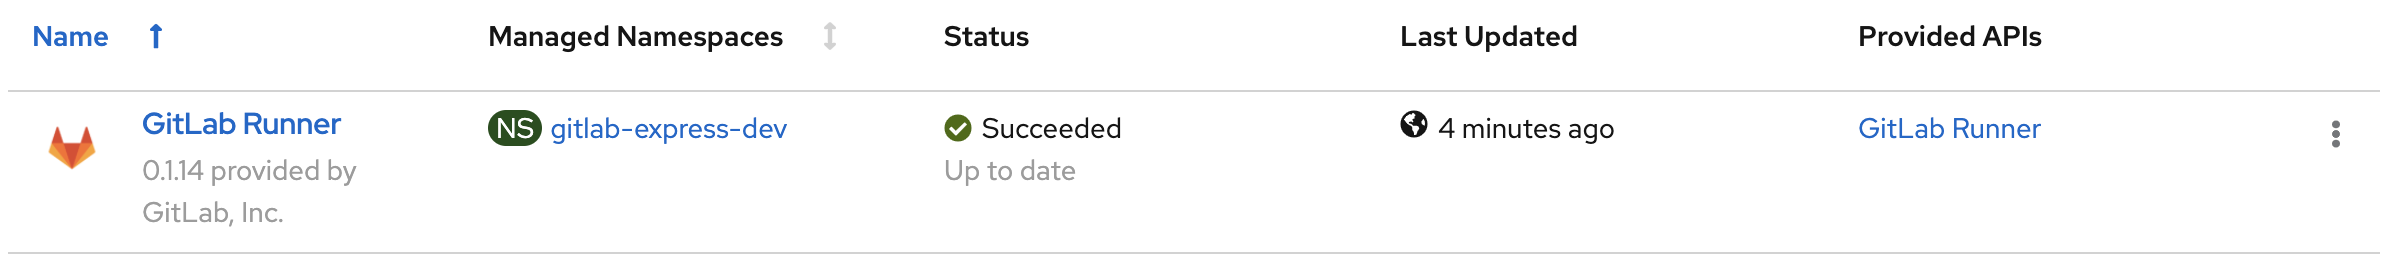
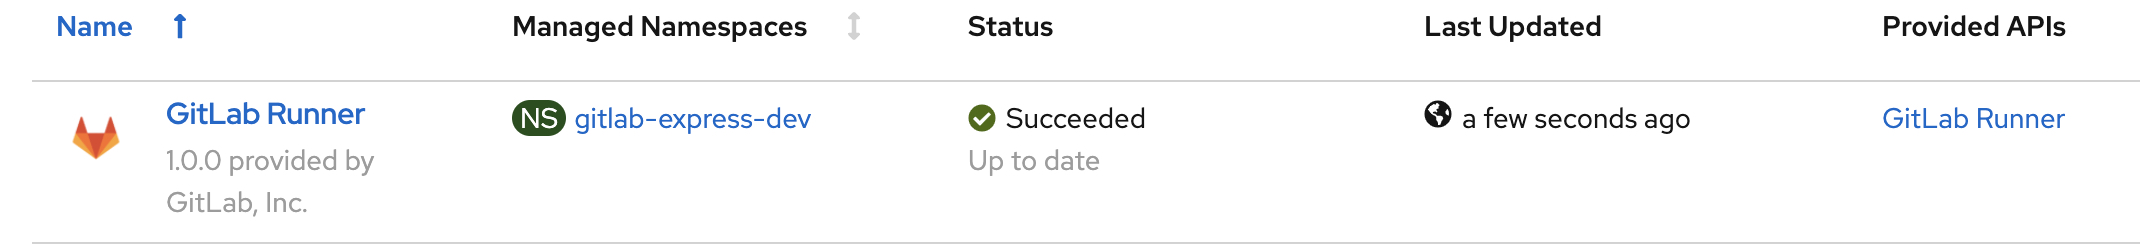
Document operator properties, custom installation and permissions

diff --git a/docs/configuration/configuring_runner_openshift.md b/docs/configuration/configuring_runner_openshift.md
@@ -6,7 +6,76 @@ info: To determine the technical writer assigned to the Stage/Group associated w
 
 # Configuring GitLab Runner on OpenShift 
 
-This document explains how to configure the GitLab Runner on OpenShift.
+This document explains how to configure GitLab Runner on OpenShift.
+
+## Passing properties to GitLab Runner Operator
+
+When creating a `Runner`, you can configure it by setting properties in its `spec`. For example, you can specify the GitLab URL it will be registered in, or the name of the secret that contains the registration token:
+
+```yaml
+apiVersion: apps.gitlab.com/v1beta2
+kind: Runner
+metadata:
+ name: dev
+spec:
+ gitlabUrl: https://gitlab.example.com
+ token: gitlab-runner-secret # Name of the secret containing the Runner token
+```
+
+Read about all the available properties in [Operator properties](#operator-properties).
+
+## Operator properties
+
+This is a list of the supported properties that can be passed to the Operator.
+
+| Setting | Description |
+| ------- | ----------- |
+| `gitlabUrl`     | The fully qualified domain name for the GitLab instance, for example, `https://gitlab.example.com`. |
+| `token`         | Name of `Secret` containing the `runner-registration-token` key used to register the runner. |
+| `tags`          | List of comma-separated tags to be applied to the runner. |
+| `concurrent`    | Limits how many jobs can run concurrently. The maximum number is all defined runners. 0 does not mean unlimited. Default is `10`. |
+| `interval`      | Defines the number of seconds between checks for new jobs. Default is `30`. |
+| `cloneURL`      | Overwrite the URL for the GitLab instance. Used only if the runner can’t connect to the GitLab URL. |
+| `env`           | Name of `ConfigMap` containing key-value pairs that will be injected as environment variables in the Runner pod. |
+| `helperImage`   | Overwrites the default GitLab Runner Helper Image. |
+| `buildImage`    | The default Docker image to use for builds when none is specified. |
+| `cacheType`     | Type of cache used for Runner artifacts. One of: `gcs`, `s3`, `azure`. |
+| `cachePath`     | Defines the cache path on the file system. |
+| `cacheShared`   | Enable sharing of cache between runners. |
+| `s3`            | Options used to setup S3 cache. Refer to [Cache properties](#cache-properties). |
+| `gcs`           | Options used to setup GCS cache. Refer to [Cache properties](#cache-properties). |
+| `azure`         | Options used to setup Azure cache. Refer to [Cache properties](#cache-properties). |
+| `ca`            | Name of TLS secret containing the custom certificate authority (CA) certificates. |
+| `serviceAccount`| Use to override service account used to run the Runner pod. |
+| `config`        | Use to provide a custom config map with a [configuration template](../register/index.md#runners-configuration-template-file). |
+
+## Cache properties
+
+### S3 cache
+
+| Setting | Description |
+| ------- | ----------- |
+| `server`        | The S3 server address. |
+| `credentials`   | Name of the `Secret` containing the `accesskey` and `secretkey` properties used to access the object storage. |
+| `bucket`        | Name of the bucket in which the cache will be stored. |
+| `location`      | Name of the S3 region which the cache will be stored. |
+| `insecure`      | Use insecure connections or `HTTP`. |
+
+### GCS cache
+
+| Setting | Description |
+| ------- | ----------- |
+| `credentials`     | Name of the `Secret` containing the `access-id` and `private-key` properties used to access the object storage. |
+| `bucket`          | Name of the bucket in which the cache will be stored. |
+| `credentialsFile` | Takes GCS credentials file, `keys.json`. |
+
+### Azure cache
+
+| Setting | Description |
+| ------- | ----------- |
+| `credentials`     | Name of the `Secret` containing the `accountName` and `privateKey` properties used to access the object storage. |
+| `container`       | Name of the Azure container in which the cache will be stored. |
+| `storageDomain`   | The domain name of the Azure blob storage. |
 
 ## Configure a proxy environment
 
@@ -38,59 +107,143 @@ To create a proxy environment:
      name: dev
    spec:
      gitlabUrl: https://gitlab.example.com
-     imagePullPolicy: Always
      token: gitlab-runner-secret # Name of the secret containing the Runner token
-     tags: openshift, test
      env: custom-env
    ```
 
-## Add root CA certs to runners
+## Customize `config.toml` with a configuration template
 
-1. Mount a ConfigMap to the container running the job. 
+You can customize the runner's `config.toml` file by using the [configuration template](../register/index.md#runners-configuration-template-file).
 
-   This uses the GitLab Runner [configuration template](../register/index.md#runners-configuration-template-file) called `custom-config.toml`.
+1. Create a custom config template file. For example, let's instruct our runner to mount an `EmptyDir` volume. Create the `custom-config.toml` file:
 
    ```toml
    [[runners]]
      [runners.kubernetes]
        [runners.kubernetes.volumes]
-         [[runners.kubernetes.volumes.config_map]]
-           name = "config-map-1"
-           mount_path = "/path/to/directory"
+         [[runners.kubernetes.volumes.empty_dir]]
+           name = "empty-dir"
+           mount_path = "/path/to/empty_dir"
+           medium = "Memory"
    ```
 
-1. Apply the changes.
+1. Create a `ConfigMap` named `custom-config-toml` from our `custom-config.toml` file:
 
    ```shell
     oc create configmap custom-config-toml --from-file config.toml=custom-config.toml
    ```
 
+1. Set the `config` property of the `Runner`:
+
+    ```yaml
+    apiVersion: apps.gitlab.com/v1beta2
+    kind: Runner
+    metadata:
+      name: dev
+    spec:
+      gitlabUrl: https://gitlab.example.com
+      token: gitlab-runner-secret
+      config: custom-config-toml
+    ``` 
+
 ## Configure a custom TLS cert
 
-To set a custom TLS cert, create a secret with key `tls.crt` and set the ca key in the `runner.yaml` file.
+1. To set a custom TLS cert, create a secret with key `tls.crt`. In this example, the file is named `custom-tls-ca-secret.yaml`:
 
-```yaml
-apiVersion: apps.gitlab.com/v1beta2
-kind: Runner
-metadata:
-  name: dev
-spec:
-  gitlabUrl: https://gitlab.com
-  imagePullPolicy: Always
-  token: gitlab-runner-secret # Name of the secret containing the Runner token
-  tags: openshift, test
-  config: custom-config-toml
-``` 
+    ```yaml
+    apiVersion: v1
+    kind: Secret
+    metadata:
+        name: custom-tls-ca
+    type: Opaque
+    stringData:
+        tls.ca: |
+            -----BEGIN CERTIFICATE-----
+            MIIEczCCA1ugAwIBAgIBADANBgkqhkiG9w0BAQQFAD..AkGA1UEBhMCR0Ix
+            .....
+            7vQMfXdGsRrXNGRGnX+vWDZ3/zWI0joDtCkNnqEpVn..HoX
+            -----END CERTIFICATE-----
+    ```
+
+1. Create the secret:
+    
+   ```shell
+   oc apply -f custom-tls-ca-secret.yaml
+   ```
+
+1. Set the `ca` key in the `runner.yaml` to the same name as the name of our secret:
+
+    ```yaml
+    apiVersion: apps.gitlab.com/v1beta2
+    kind: Runner
+    metadata:
+      name: dev
+    spec:
+      gitlabUrl: https://gitlab.example.com
+      token: gitlab-runner-secret
+      ca: custom-tls-ca
+    ``` 
 
 ## Configure the cpu and memory size of runner pods
 
-To set [CPU limits](../executors/kubernetes.md#cpu-requests-and-limits) and [memory limits](../executors/kubernetes.md#memory-requests-and-limits) in a custom `config.toml` file, follow the instructions in [this topic](#add-root-ca-certs-to-runners).
+To set [CPU limits](../executors/kubernetes.md#cpu-requests-and-limits) and [memory limits](../executors/kubernetes.md#memory-requests-and-limits) in a custom `config.toml` file, follow the instructions in [this topic](#customize-configtoml-with-a-configuration-template).
 
 ## Configure job concurrency per runner based on cluster resources
+
+Set the `concurrent` property of the `Runner` resource: 
+
+   ```yaml
+   apiVersion: apps.gitlab.com/v1beta2
+   kind: Runner
+   metadata:
+     name: dev
+   spec:
+     gitlabUrl: https://gitlab.example.com
+     token: gitlab-runner-secret
+     concurrent: 2
+   ```
 
 Job concurrency is dictated by the requirements of the specific project. 
 
 1. Start by trying to determine the compute and memory resources required to execute a CI job.
 1. Calculate how many times that job would be able to execute given the resources in the cluster.
 
-If you set too large a concurrency value, Kubernetes still schedules the jobs as soon as it can.
+If you set too large a concurrency value, the Kubernetes executor will process the jobs as soon as it can.
+However, the Kubernetes cluster's scheduler capacity determines when the job is scheduled.
+
+## Troubleshooting
+
+### Root vs non-root
+
+The GitLab Runner Operator and the GitLab Runner pod run as non-root users. As a result, the build image used in the job would need to run as a non-root user to be able to complete successfully.
+This is to ensure that jobs can run successfully with the least permission. However, for this to work,
+the build image used for the CI jobs also needs to be built to run as non-root and should not write to
+a restricted filesystem. Keep in mind that most container filesystems on an OpenShift cluster will be read-only, except for mounted
+volumes, `/var/tmp`, `/tmp` and other volumes mounted on the root filesystem as `tmpfs`.
+
+#### Overriding the `HOME` environment variable
+
+If creating a custom build image or [overriding env variables](#configure-a-proxy-environment), ensure that the HOME environment variables is not set to `/` which would be read-only.
+Especially if your jobs would need to write files to the home directory.
+You could create a directory under `/home` for example `/home/ci` and set `ENV HOME=/home/ci` in your `Dockerfile`.
+
+For the runner pods [it's expected that `HOME` would be set to `/home/gitlab-runner`](https://gitlab.com/gitlab-org/ci-cd/gitlab-runner-ubi-images/-/blob/e265820a00a6a1b9a271dc132de2618ced43cf92/runner/Dockerfile.OCP#L14).
+If this variable is changed, the new location must have the [proper permissions](https://gitlab.com/gitlab-org/ci-cd/gitlab-runner-ubi-images/-/blob/e265820a00a6a1b9a271dc132de2618ced43cf92/runner/Dockerfile.OCP#L38).
+These guidelines are also documented in the [RedHat Container Platform Docs > Creating Images > Support arbitrary user ids](https://docs.openshift.com/container-platform/4.7/openshift_images/create-images.html#support-arbitrary-user-ids).
+
+#### Watch out for SCC
+
+By default, when installed in a new OpenShift project, the GitLab Runner Operator will run as non-root.
+There are exceptions, when all the service accounts in a project are granted `anyuid` access, such as the `default` project.
+In that case, the user of the image will be `root`. This can be easily checked by running the `whoami` inside any container shell, e.g. a job.
+Read more about SCC in [RedHat Container Platform Docs > Managing security context constraints](https://docs.openshift.com/container-platform/4.7/authentication/managing-security-context-constraints.html).
+
+#### Run As anyuid SCC
+
+Though discouraged, in the event that is it absolutely necessary for a CI job to run as the root
+user or to write to the root filesystem, you will need to set the `anyuid` SCC on the GitLab Runner
+service account, `gitlab-runner-sa`, which is used by the GitLab Runner container.
+
+```shell
+oc adm policy add-scc-to-user anyuid -z gitlab-runner-sa
+```

diff --git a/docs/install/openshift.md b/docs/install/openshift.md
@@ -22,13 +22,15 @@ First you must install the OpenShift Operator.
 
 1. Open the OpenShift UI and log in as a user with administrator privileges.
 1. In the left pane, click **Operators**, then **OperatorHub**.
-1. In the main pane, below **All Items**, search for the keyword `GitLab`.
+1. In the main pane, below **All Items**, search for the keyword `GitLab Runner`.
 
    ![GitLab Operator](img/openshift_allitems_v13_3.png)
 
 1. To install, click the GitLab Runner Operator.
 1. On the GitLab Runner Operator summary page, click **Install**.
-1. On the Install Operator page, under **Installed Namespace**, select the desired namespace and click **Install**.
+1. On the Install Operator page:
+    1. Under **Update Channel**, select **stable**.
+    1. Under **Installed Namespace**, select the desired namespace and click **Install**.
 
    ![GitLab Operator Install Page](img/openshift_installoperator_v13_3.png)
 
@@ -113,3 +115,41 @@ in the [Red Hat Ecosystem Catalog container list](https://catalog.redhat.com/sof
    NAME                             READY   STATUS    RESTARTS   AGE
    gitlab-runner-bf9894bdb-wplxn    1/1     Running   0          5m
    ```
+   
+#### Install other versions of GitLab Runner
+
+If you do not want to use the version of GitLab Runner Operator that's available in the RedHat OperatorHub, you can install a different version.
+
+To find out the official currently-available Operator versions, view the [tags in the `gitlab-runner-operator` repository](https://gitlab.com/gitlab-org/gl-openshift/gitlab-runner-operator/-/tags).
+To find out which version of GitLab Runner the Operator is running, view the
+`APP_VERSION` variable in the `Makefile` of the commit/tag you are interested in, for example, [https://gitlab.com/gitlab-org/gl-openshift/gitlab-runner-operator/-/blob/v1.0.0/Makefile](https://gitlab.com/gitlab-org/gl-openshift/gitlab-runner-operator/-/blob/v1.0.0/Makefile).
+
+To install a specific version, create this `catalogsource.yaml` file and replace `<VERSION>` with a tag or a specific commit:
+
+NOTE:
+When using an image for a specific commit, the tag format is `v0.0.1-<COMMIT>`. For example: `registry.gitlab.com/gitlab-org/gl-openshift/gitlab-runner-operator/gitlab-runner-operator-catalog-source:v0.0.1-f5a798af`.
+
+```yaml
+apiVersion: operators.coreos.com/v1alpha1
+kind: CatalogSource
+metadata:
+  name: gitlab-runner-catalog
+  namespace: openshift-marketplace
+spec:
+  sourceType: grpc
+  image: registry.gitlab.com/gitlab-org/gl-openshift/gitlab-runner-operator/gitlab-runner-operator-catalog-source:<VERSION>
+  displayName: GitLab Runner Operators
+  publisher: GitLab Community
+```
+
+Create the `CatalogSource` with:
+
+```shell
+oc apply -f catalogsource.yaml
+```
+
+In a minute the new Runner should show up in the OpenShift cluster's OperatorHub section.
+   
+#### Configuration
+
+To configure GitLab Runner in OpenShift, see the [Configuring GitLab Runner on OpenShift](../configuration/configuring_runner_openshift.md) page.
